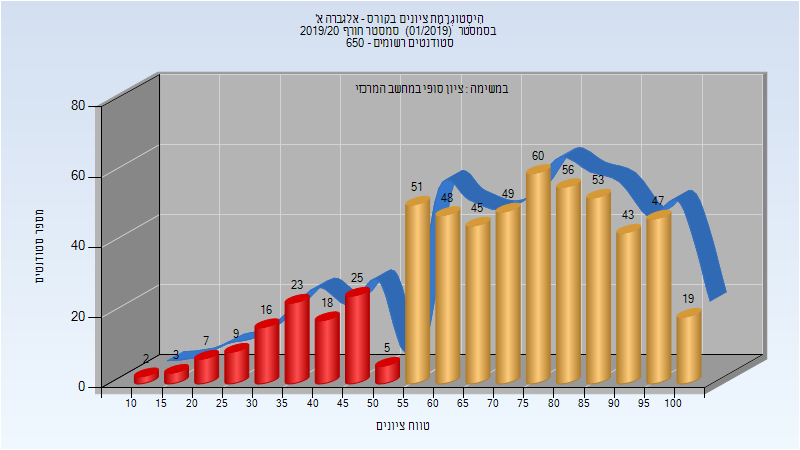
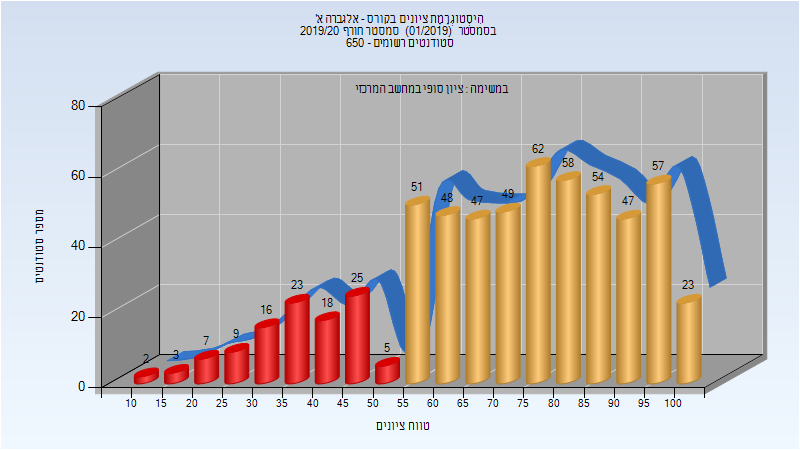
Deploy michael-maltsev/technion-histograms to github.com/michael-maltsev/technion-histograms.git:gh-pages

Changed region(s): [[0.6562, 0.3111, 0.9062, 0.7156], [0.5625, 0.4044, 0.6562, 0.4978]]

diff --git a/104166/index.html b/104166/index.html
@@ -1296,13 +1296,13 @@
 </thead>
 <tbody>
 <tr>
-<td>579</td>
-<td>471/108</td>
-<td>81</td>
+<td>604</td>
+<td>496/108</td>
+<td>82</td>
 <td>11</td>
 <td>100</td>
-<td>70.197</td>
-<td>73</td>
+<td>71.056</td>
+<td>74</td>
 </tr>
 </tbody>
 </table>

diff --git a/114054/index.html b/114054/index.html
@@ -856,8 +856,8 @@
 </thead>
 <tbody>
 <tr>
-<td>עכאשה מוחמד</td>
-<td>מרצה - אחראי מקצוע</td>
+<td>וונג חואן</td>
+<td>סגל מנהלי - עם הרשאות מרצה אחראי</td>
 </tr>
 </tbody>
 </table>

diff --git a/104166/README.md b/104166/README.md
@@ -405,7 +405,7 @@
 
 | סטודנטים | עברו/נכשלו | אחוז עוברים | ציון מינימלי | ציון מקסימלי | ממוצע | חציון |
 | ---- | ---- | ---- | ---- | ---- | ---- | ---- |
-| 579 | 471/108 | 81 | 11 | 100 | 70.197 | 73 |
+| 604 | 496/108 | 82 | 11 | 100 | 71.056 | 74 |
 
 ## אביב 2020
 

diff --git a/114054/README.md b/114054/README.md
@@ -271,5 +271,5 @@
 
 | איש סגל | תפקיד |
 | ---- | ---- |
-| עכאשה מוחמד | מרצה - אחראי מקצוע |
+| וונג חואן | סגל מנהלי - עם הרשאות מרצה אחראי |
 
